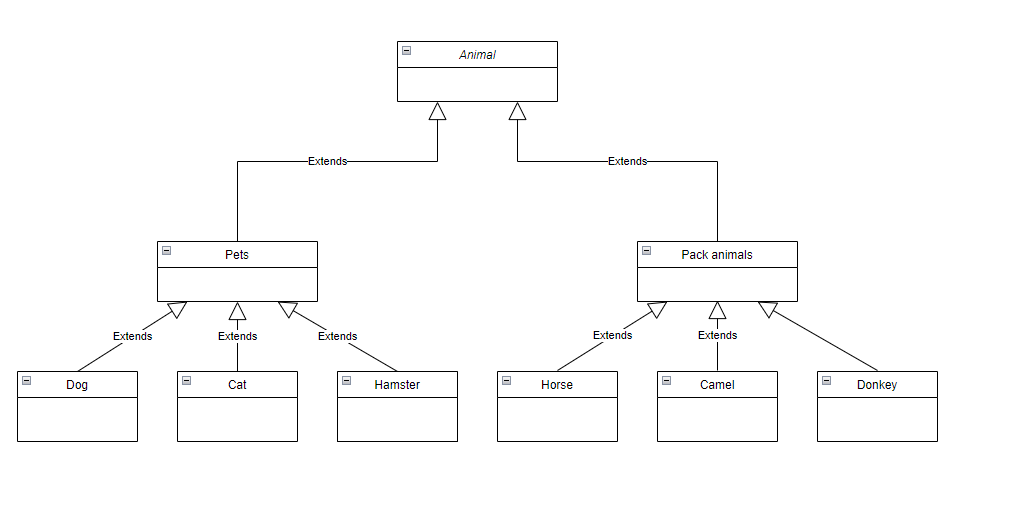
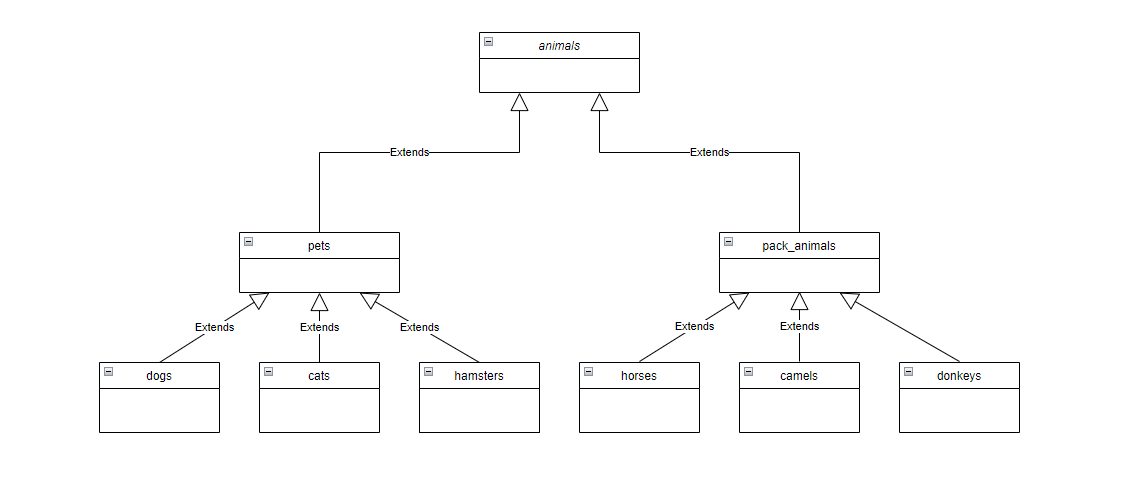
fix names

diff --git a/README.md b/README.md
@@ -56,13 +56,13 @@ CREATE DATABASE mans_friends;
 ```mysql
 USE mans_friends;
 
-CREATE TABLE animal
+CREATE TABLE animals
 (
 	Id INT AUTO_INCREMENT PRIMARY KEY,  
 	Animal_class VARCHAR(50)
 );
 
-INSERT INTO animal (Animal_class)
+INSERT INTO animals (Animal_class)
 VALUES ('pets'),
 ('pack animals');  
 
@@ -71,7 +71,7 @@ CREATE TABLE pets
 	Id INT AUTO_INCREMENT PRIMARY KEY,
     Pet_class VARCHAR (50),
     Animal_id INT,
-    FOREIGN KEY (Animal_id) REFERENCES animal (Id) ON DELETE CASCADE ON UPDATE CASCADE
+    FOREIGN KEY (Animal_id) REFERENCES animals (Id) ON DELETE CASCADE ON UPDATE CASCADE
 );
 
 INSERT INTO pets (Pet_class, Animal_id)
@@ -84,7 +84,7 @@ CREATE TABLE pack_animals
 	Id INT AUTO_INCREMENT PRIMARY KEY,
     Pack_animal_class VARCHAR (50),
     Animal_id INT,
-    FOREIGN KEY (Animal_id) REFERENCES animal (Id) ON DELETE CASCADE ON UPDATE CASCADE
+    FOREIGN KEY (Animal_id) REFERENCES animals (Id) ON DELETE CASCADE ON UPDATE CASCADE
 );
 
 INSERT INTO pack_animals (Pack_animal_class, Animal_id)
@@ -93,7 +93,7 @@ VALUES ('Horse', 2),
 ('Donkey', 2); 
     
 
-CREATE TABLE dog
+CREATE TABLE dogs
 (       
     Id INT AUTO_INCREMENT PRIMARY KEY, 
     Name VARCHAR(50), 
@@ -103,7 +103,7 @@ CREATE TABLE dog
     Foreign KEY (Pet_id) REFERENCES pets (Id) ON DELETE CASCADE ON UPDATE CASCADE
 );
 
-CREATE TABLE cat
+CREATE TABLE cats
 (       
     Id INT AUTO_INCREMENT PRIMARY KEY, 
     Name VARCHAR(50), 
@@ -113,7 +113,7 @@ CREATE TABLE cat
     Foreign KEY (Pet_id) REFERENCES pets (Id) ON DELETE CASCADE ON UPDATE CASCADE
 );
 
-CREATE TABLE hamster
+CREATE TABLE hamsters
 (       
     Id INT AUTO_INCREMENT PRIMARY KEY, 
     Name VARCHAR(50), 
@@ -123,7 +123,7 @@ CREATE TABLE hamster
     Foreign KEY (Pet_id) REFERENCES pets (Id) ON DELETE CASCADE ON UPDATE CASCADE
 );
 
-CREATE TABLE horse
+CREATE TABLE horses
 (       
     Id INT AUTO_INCREMENT PRIMARY KEY, 
     Name VARCHAR(50), 
@@ -133,7 +133,7 @@ CREATE TABLE horse
     Foreign KEY (Pack_animal_id) REFERENCES pack_animals (Id) ON DELETE CASCADE ON UPDATE CASCADE
 );
 
-CREATE TABLE camel
+CREATE TABLE camels
 (       
     Id INT AUTO_INCREMENT PRIMARY KEY, 
     Name VARCHAR(50), 
@@ -143,7 +143,7 @@ CREATE TABLE camel
     Foreign KEY (Pack_animal_id) REFERENCES pack_animals (Id) ON DELETE CASCADE ON UPDATE CASCADE
 );
 
-CREATE TABLE donkey
+CREATE TABLE donkeys
 (       
     Id INT AUTO_INCREMENT PRIMARY KEY, 
     Name VARCHAR(50), 
